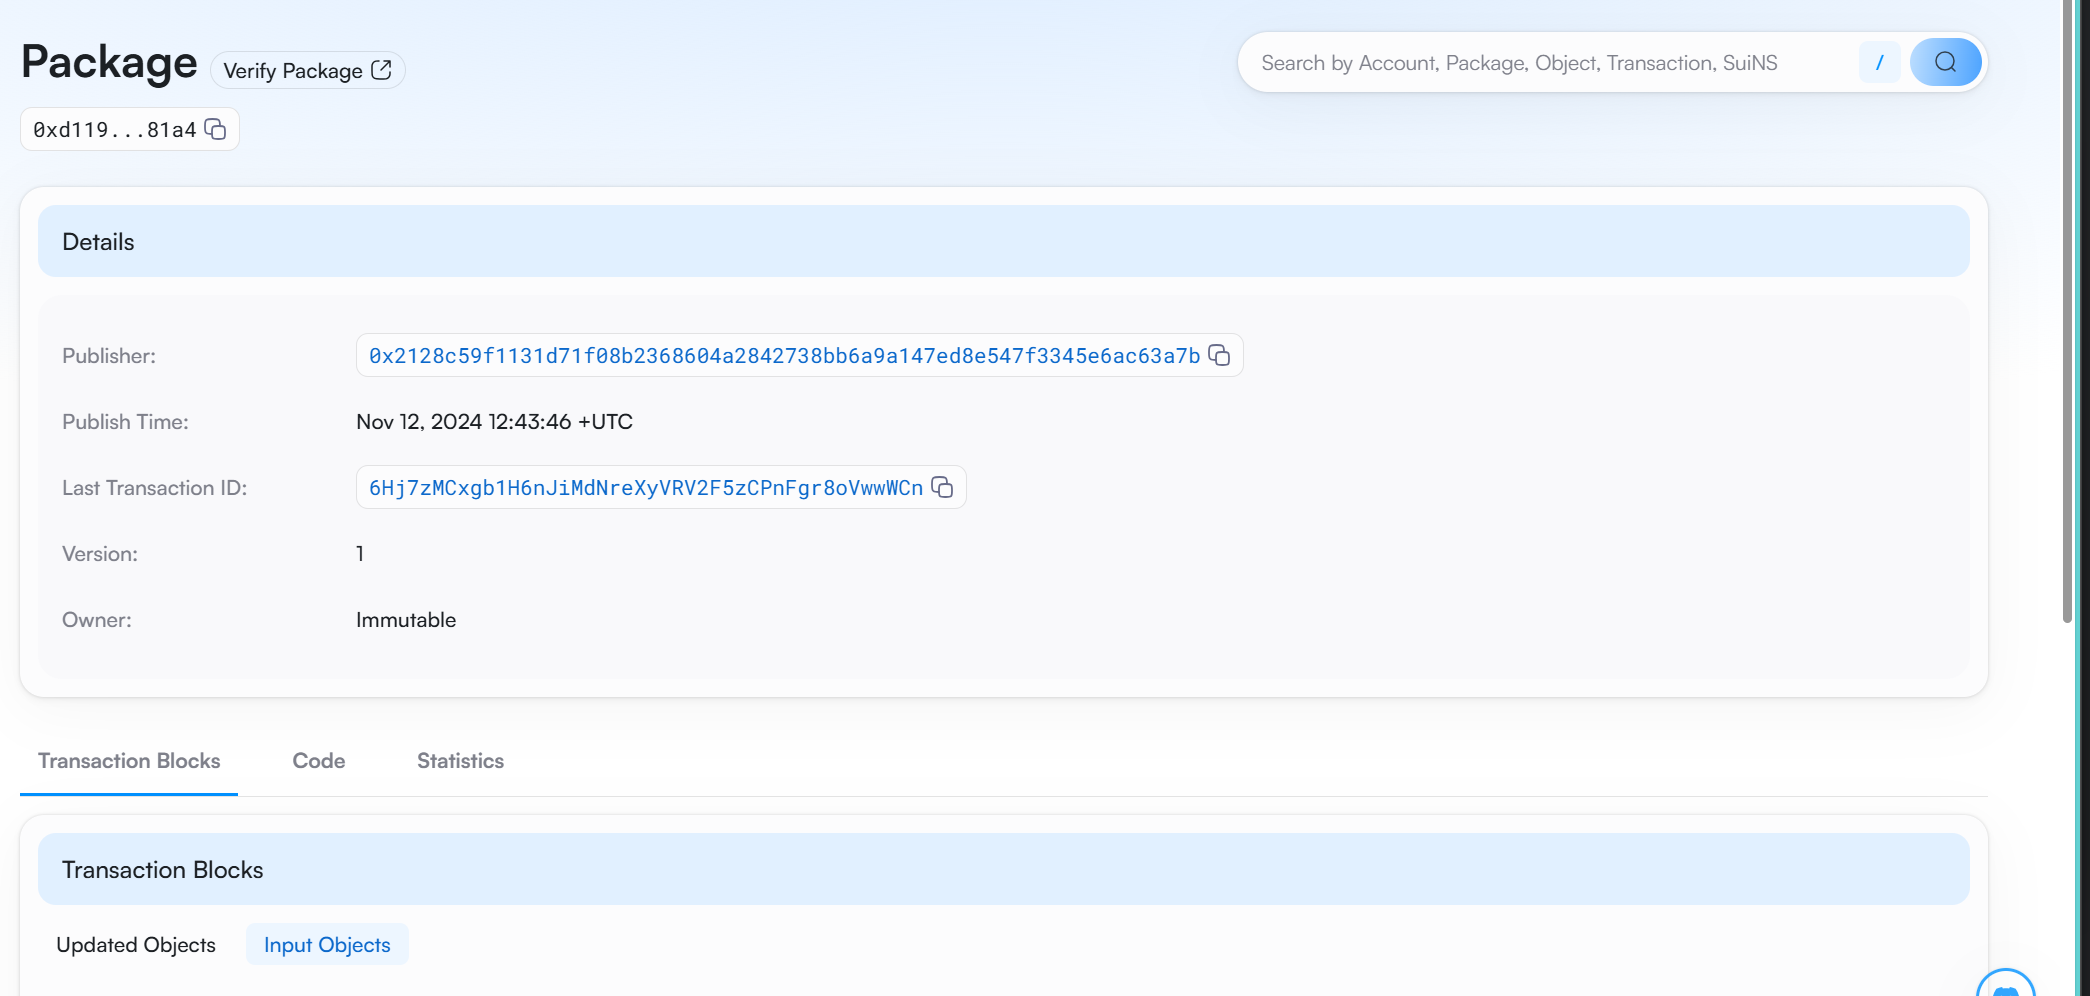
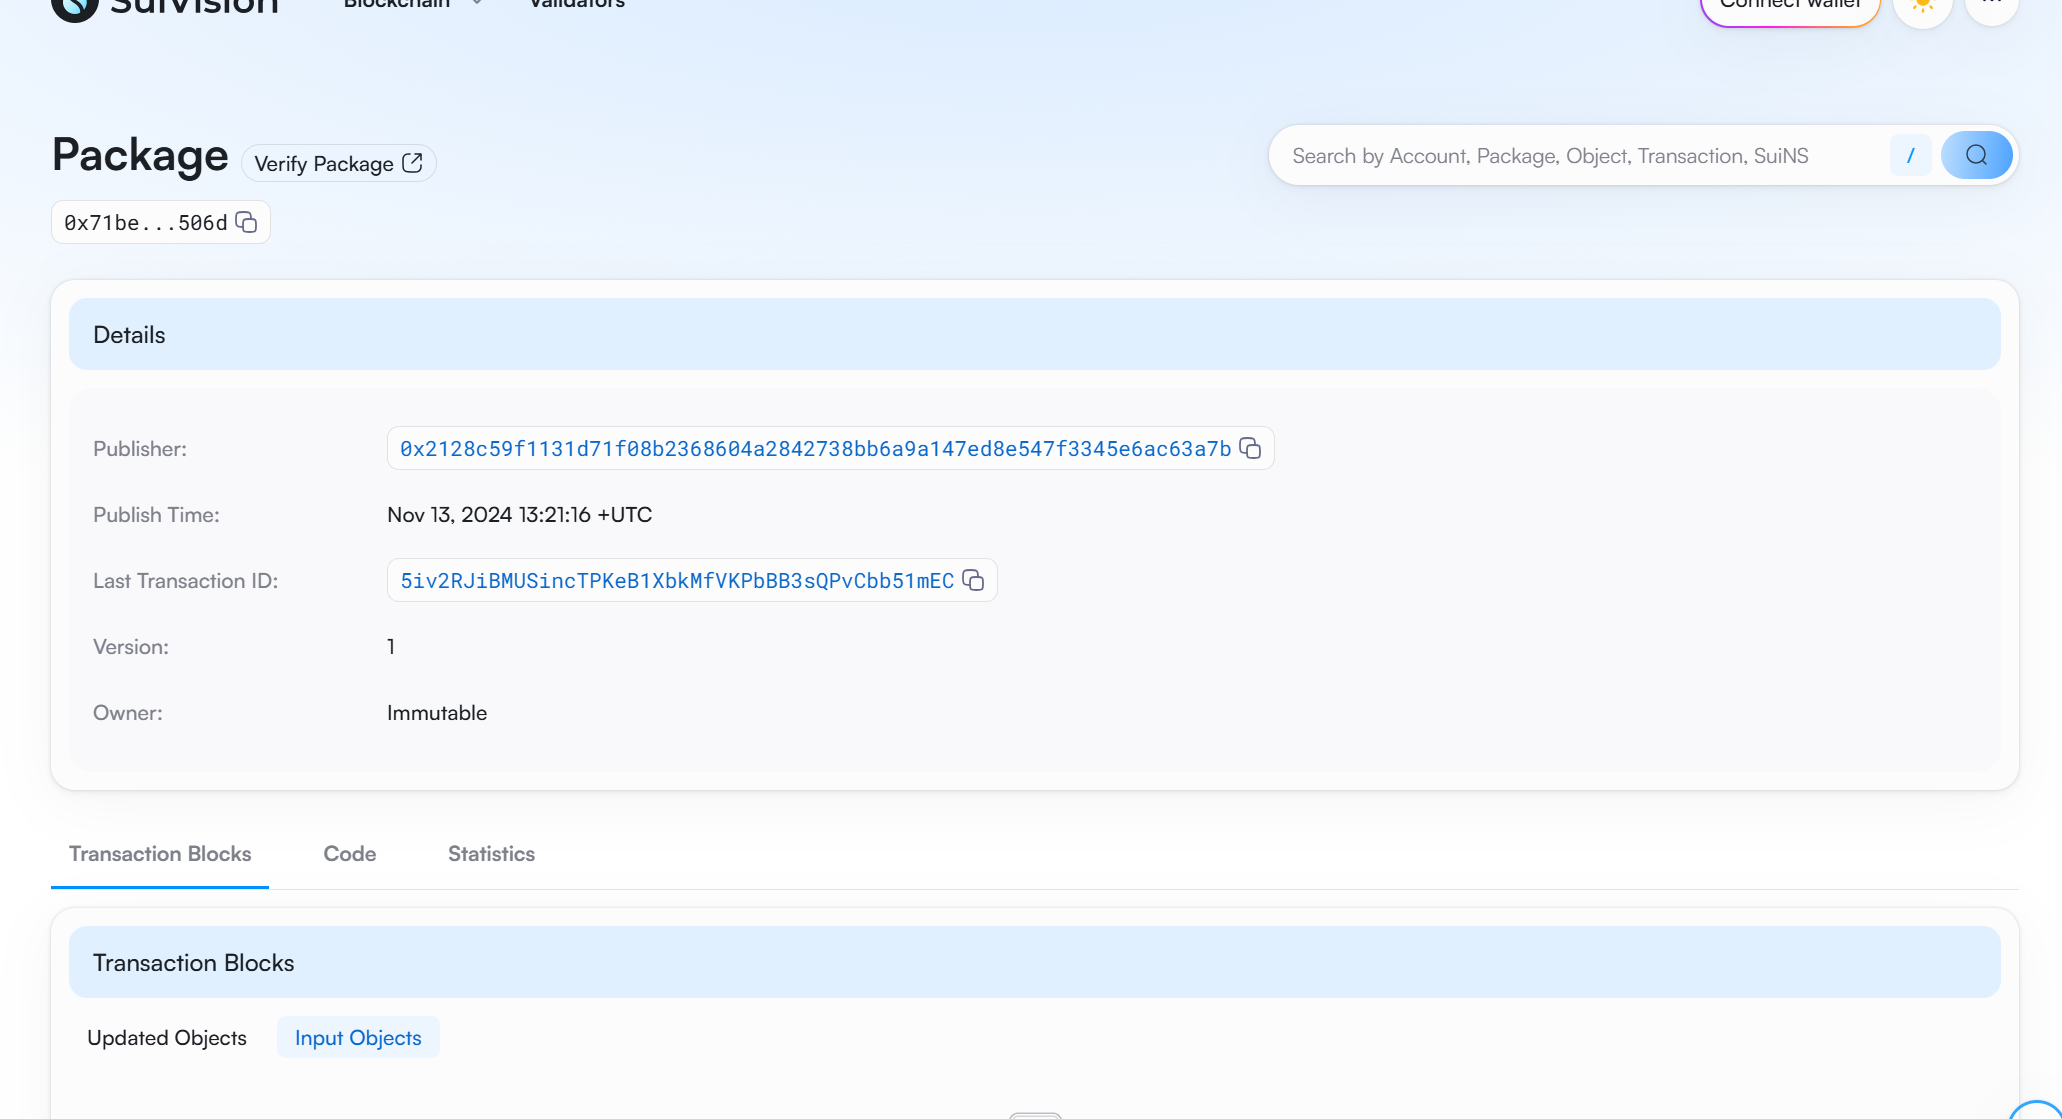
tsak1

diff --git a/mover/ddybhm/readme.md b/mover/ddybhm/readme.md
@@ -1,22 +1,22 @@
 ## 基本信息
-- Sui钱包地址: `0x1000000000000x`
[1 lines of base64/hex data omitted]
 > 首次参与需要完成第一个任务注册好钱包地址才被合并，并且后续学习奖励会打入这个地址
-- github: `自己的githubid`
+- github: `ddybhm`
 
 ## 个人简介
-- 工作经验: x年
-- 技术栈: `Rust` `C++`
+- 工作经验: 0年
+- 技术栈: `Solidity` `C++`
 > 重要提示 请认真写自己的简介
-- 多年web2开发经验，对Move特别感兴趣，想通过Move入门区块链
-- 联系方式: tg: `xxx` 
+- 目前为在校学生，对Move特别感兴趣，想通过Move入门区块链
+- 联系方式: WeChat: `观后感` 
 
 ## 任务
 []()
 ##   01 hello move  
-- [] Sui cli version:
-- [] Sui钱包截图: ![Sui钱包截图](./images/你的图片地址)
-- [] package id: 
-- [] package id 在 scan上的查看截图:![Scan截图](./images/你的图片地址)
+- [] Sui cli version:sui 1.36.2-3ada97c109cc
+- [] Sui钱包截图: ![Sui钱包截图](./co-learn-2411/images/task1-1.png)
+- [] package id: 0x71be873917426d654c41bdc45539057d4c98a3cdfe3b3da5bac2d23d5000506d
+- [] package id 在 scan上的查看截图:![Scan截图](./co-learn-2411/images/task1-2.png)
 
 ##   02 move coin
 - [] My Coin package id : 
